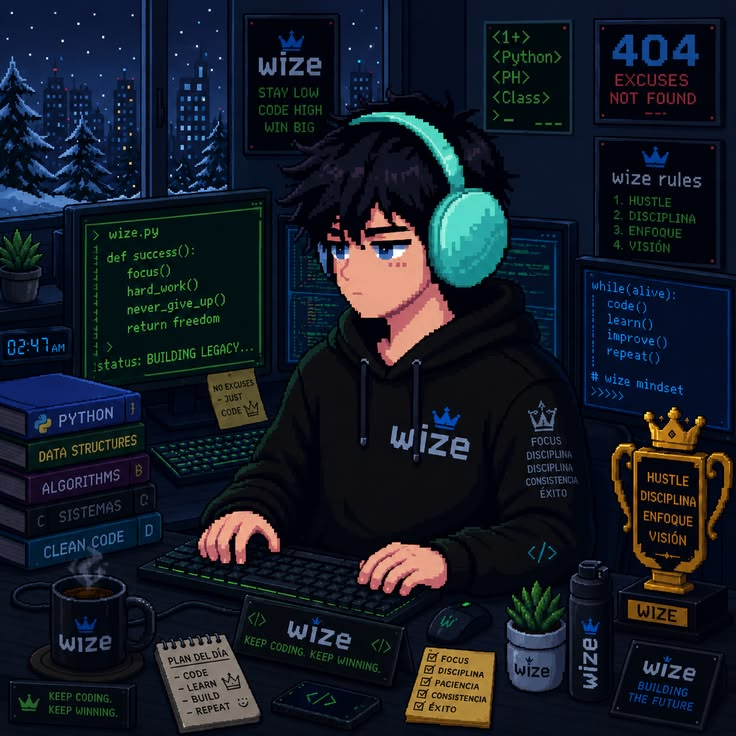
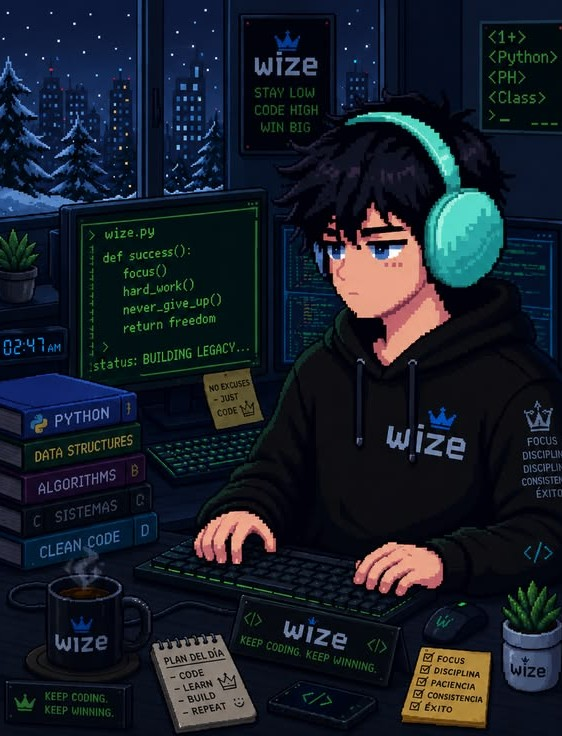
feat: add hobbies section, centre the About Me image, update artwork
- Replace the pixel-art image with the newly cropped version and move
  the code block into a two-cell table with valign="middle", so the
  image and the code are centred against each other.
- Add a "Beyond Code" section built from the hobby answers.
- Add the planned streaming catalogue to the projects section.

diff --git a/README.md b/README.md
@@ -70,9 +70,11 @@
 <!--                             ABOUT ME                                -->
 <!-- ═══════════════════════════════════════════════════════════════════ -->
 
-<img align="right" width="330" src="https://raw.githubusercontent.com/Bekokim/Bekokim/main/assets/wize.jpg" alt="Keep coding, keep winning"/>
-
 ## 💻 About Me / Обо мне
+
+<table>
+<tr>
+<td valign="middle">
 
 ```python
 class BekzatErgeshov:
@@ -105,7 +107,12 @@ me = BekzatErgeshov()
 me.say_hi()
 ```
 
-<br clear="right"/>
+</td>
+<td valign="middle" width="330">
+<img width="330" src="https://raw.githubusercontent.com/Bekokim/Bekokim/main/assets/wize.jpg" alt="Keep coding, keep winning"/>
+</td>
+</tr>
+</table>
 
 <br/>
 
@@ -230,6 +237,14 @@ me.say_hi()
 
 <br/>
 
+### 🔶 Next Up &nbsp; `Django` `PostgreSQL` `React` — *in planning*
+
+> **EN** — A streaming catalogue for films, series and anime in the spirit of Anwap and Jut.su: search, filtering by genre and year, watchlists and a clean player page.
+>
+> **RU** — Каталог фильмов, сериалов и аниме в духе Anwap и Jut.su: поиск, фильтры по жанру и году, списки «к просмотру» и аккуратная страница плеера.
+
+<br/>
+
 > 💡 **All my repositories are open source** — feel free to read, fork and learn from the code.
 > 💡 **Все мои репозитории открыты** — читай, форкай и учись на коде.
 
@@ -295,6 +310,35 @@ me.say_hi()
 <img width="42%" src="https://github-profile-summary-cards.vercel.app/api/cards/repos-per-language?username=Bekokim&theme=github_dark" alt="Repos per language" />
 &nbsp;
 <img width="42%" src="https://github-profile-summary-cards.vercel.app/api/cards/productive-time?username=Bekokim&theme=github_dark&utcOffset=6" alt="Productive time" />
+
+</div>
+
+---
+
+<!-- ═══════════════════════════════════════════════════════════════════ -->
+<!--                             HOBBIES                                 -->
+<!-- ═══════════════════════════════════════════════════════════════════ -->
+
+<div align="center">
+
+## 🎯 Beyond Code / Помимо кода
+
+<br/>
+
+| | |
+|:---|:---|
+| 🎬 **Films & Series / Кино** | Serious cinephile — movies, series, K-dramas, anime. Picking one favourite is impossible |
+| 📖 **Manga & Audiobooks / Манга** | I read manga and listen to audiobooks rather than paper ones |
+| 🥊 **Boxing / Бокс** | Trained boxing, love combat sports in general — still training today |
+| 🎧 **Music / Музыка** | Proper music junkie: Kyrgyz (modern & classic), Russian, Kazakh, a bit of English |
+| 🎙 **Podcasts / Подкасты** | There is always something playing in the background |
+| 😄 **Stand-up / Юмор** | Big stand-up fan — and I tell my own jokes from everyday life |
+| 🍳 **Cooking / Готовка** | I cook well, and I like feeding people |
+| 🗣 **People / Общение** | Easy to talk to — I genuinely enjoy meeting new people |
+| 🧩 **Competitive Programming** | Still solving problems. It is hard, but I am not quitting |
+| 😴 **Sleep / Сон** | An underrated hobby. I am good at it |
+
+<br/>
 
 </div>
 
